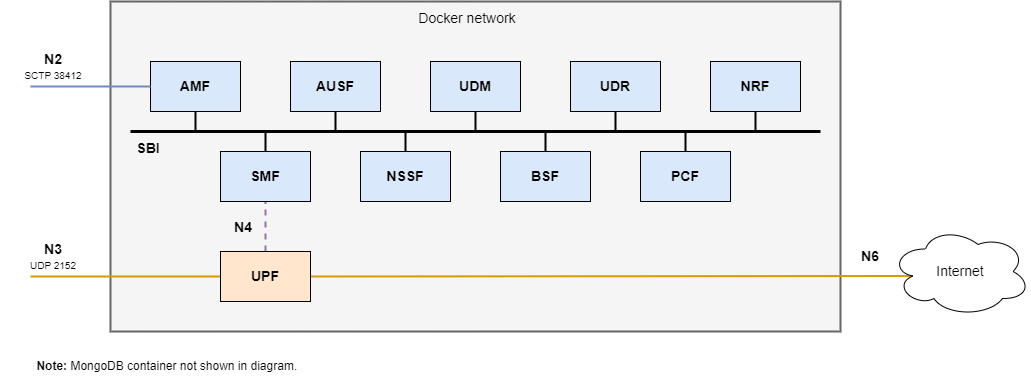
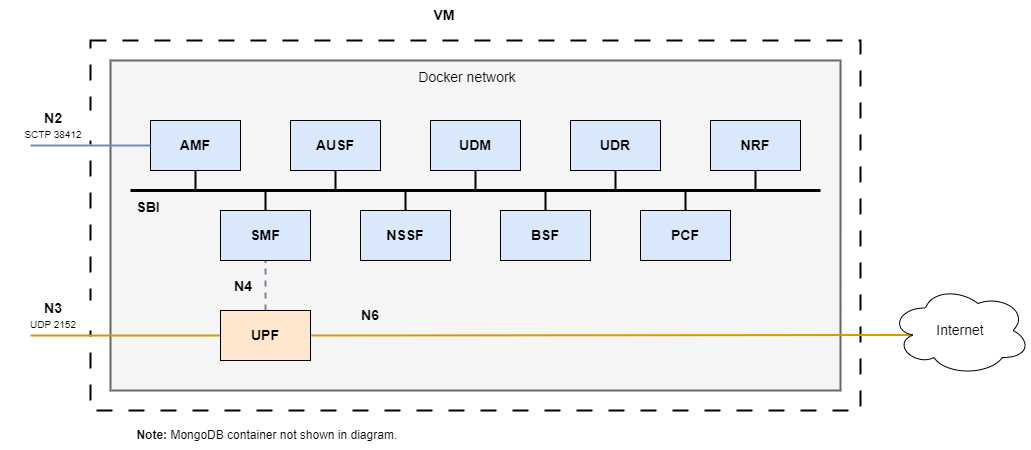
Add explanation in README.md for the internal deployment

diff --git a/README.md b/README.md
@@ -65,6 +65,14 @@ The `basic` deployment is prepared to work with external gNBs, exposing:
 
 It also exposes the MongoDB database using `TCP port 27017`.
 
+## Overview of the internal deployment
+
+![Overview of the internal deployment](misc/diagrams/internal.png)
+
+The `internal` deployment is prepared to work with internal gNBs (and UEs), only exposing the MongoDB database using `TCP port 27017`.
+
+The `internal` deployment works with UERANSIM using the gNB and UE images from [docker-ueransim](https://github.com/Borjis131/docker-ueransim).
+
 See [docs/configuration](docs/configuration.md) for more information.
 
 ### Repository contents
